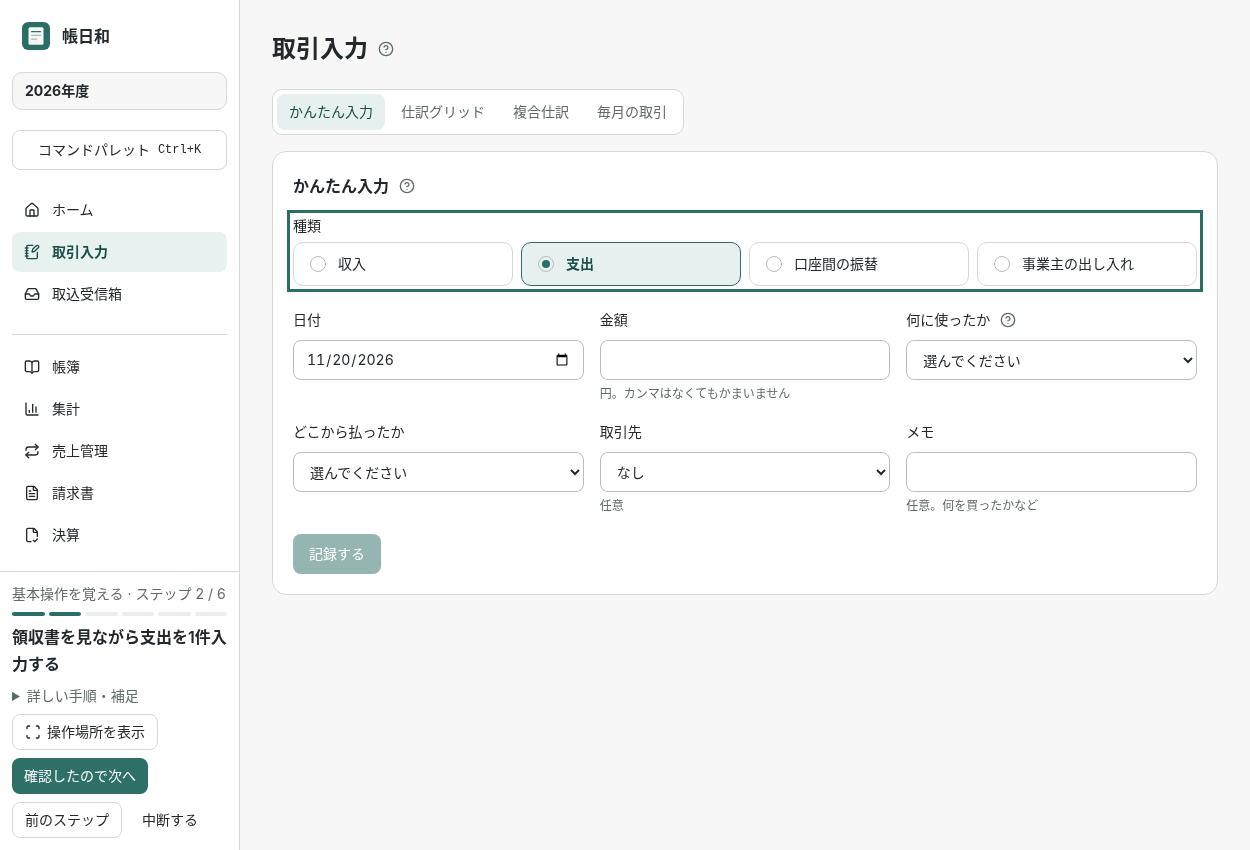
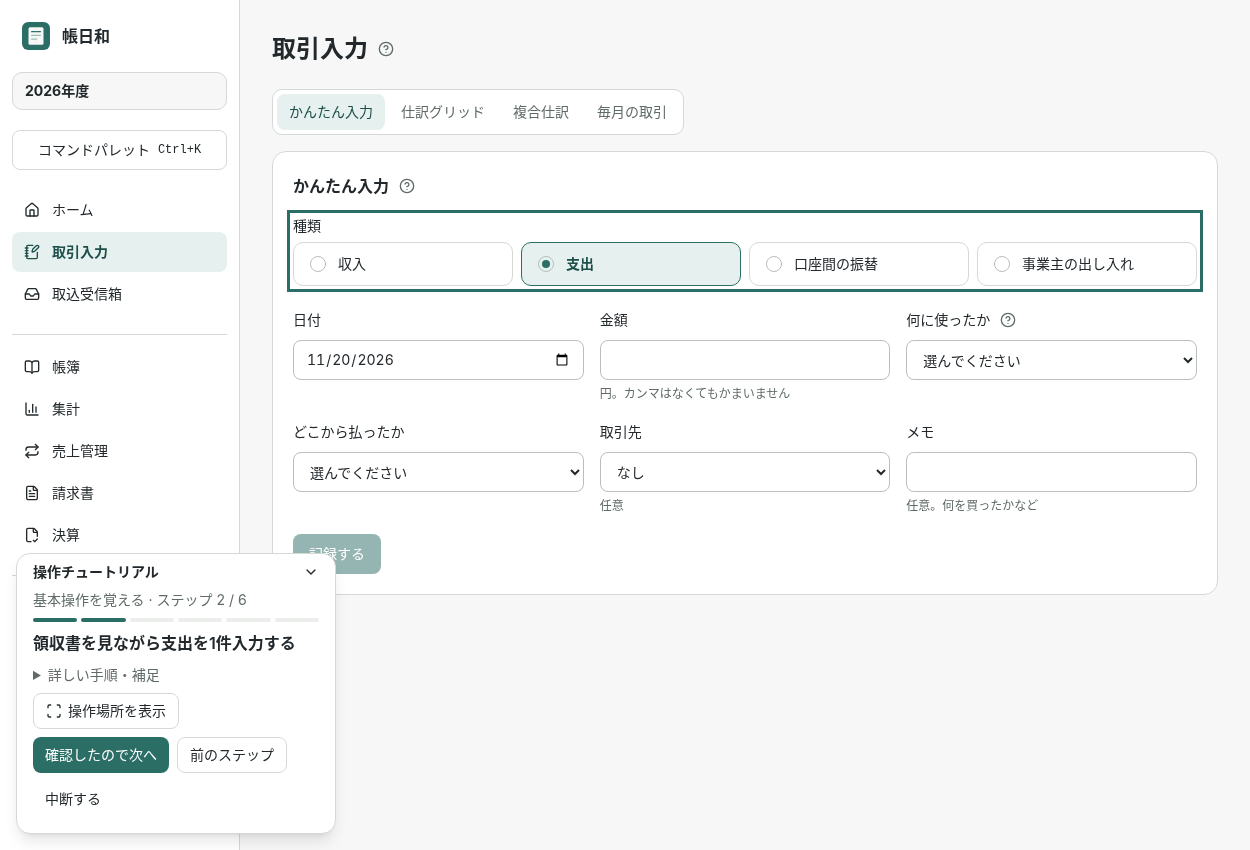
チュートリアルを折りたためるフローティングカードに変更

Changed region(s): [[0.0, 0.6424, 0.2496, 1.0], [0.2184, 0.6424, 0.2808, 0.6729]]

diff --git a/src/features/tutorial/tutorial.tsx b/src/features/tutorial/tutorial.tsx
@@ -3,6 +3,8 @@ import {
 	BookOpen,
 	CalendarDays,
 	ChartColumn,
+	ChevronDown,
+	ChevronUp,
 	CircleCheck,
 	FileDown,
 	FileText,
@@ -17,7 +19,7 @@ import {
 	Search,
 	Settings,
 } from "lucide-react"
-import { createContext, useContext, useEffect, useRef } from "react"
+import { useEffect, useId, useRef } from "react"
 import { createPortal } from "react-dom"
 import { create } from "zustand"
 import { persist } from "zustand/middleware"
@@ -60,11 +62,11 @@ const actionIcons = {
 	backup: [FolderOpen, Save, CircleCheck],
 } as const
 
-export const TutorialDock = createContext<HTMLElement | null>(null)
-
 type Track = keyof typeof tracks
 type Progress = {
 	active: Track | null
+	collapsed: boolean
+	toggleCollapsed: () => void
 	position: Record<Track, number>
 	setActive: (track: Track | null) => void
 	move: (track: Track, index: number) => void
@@ -74,8 +76,11 @@ const useProgress = create<Progress>()(
 	persist(
 		(set) => ({
 			active: null,
+			collapsed: false,
+			toggleCollapsed: () =>
+				set(({ collapsed }) => ({ collapsed: !collapsed })),
 			position: { basics: 0, migration: 0 },
-			setActive: (active) => set({ active }),
+			setActive: (active) => set({ active, collapsed: false }),
 			move: (track, index) =>
 				set(({ position }) => ({
 					active: index < tracks[track].length ? track : null,
@@ -87,9 +92,10 @@ const useProgress = create<Progress>()(
 )
 
 export function Tutorial({ screen }: { screen: ScreenId }) {
-	const { active, position, move, setActive } = useProgress()
+	const { active, collapsed, toggleCollapsed, position, move, setActive } =
+		useProgress()
 	const navigate = useNavigate()
-	const dock = useContext(TutorialDock)
+	const panelId = useId()
 	const marked = useRef<HTMLElement | null>(null)
 	const step = active ? tracks[active][position[active]] : undefined
 	useEffect(() => {
@@ -165,7 +171,7 @@ export function Tutorial({ screen }: { screen: ScreenId }) {
 	}
 	const anchor = anchors[task]
 	const last = index === steps.length - 1
-	if (!dock) return null
+	const ToggleIcon = collapsed ? ChevronUp : ChevronDown
 	function showControl() {
 		const element = anchor
 			?.map((selector) => document.querySelector<HTMLElement>(selector))
@@ -180,75 +186,98 @@ export function Tutorial({ screen }: { screen: ScreenId }) {
 	return createPortal(
 		<aside
 			aria-label={t("title")}
-			className="max-h-[48dvh] overflow-y-auto border-t bg-card px-3 py-3"
+			className={`fixed bottom-4 left-4 z-30 max-h-[calc(100dvh-2rem)] max-w-[calc(100vw-2rem)] overflow-y-auto overscroll-contain border bg-card text-card-foreground shadow-lg ${collapsed ? "rounded-full" : "w-80 rounded-xl"}`}
 		>
-			<div className="flex flex-col items-start gap-2">
-				<div className="w-full" aria-live="polite">
-					<p className="text-muted-foreground text-sm">
-						{t(active)} ·{" "}
-						{t("progress", { current: index + 1, total: steps.length })}
-					</p>
-					<div className="my-2 flex gap-1" aria-hidden="true">
-						{steps.map(([, id], i) => (
-							<span
-								key={id}
-								className={`h-1 flex-1 rounded-full ${i <= index ? "bg-primary" : "bg-muted"}`}
-							/>
-						))}
+			<button
+				type="button"
+				aria-expanded={!collapsed}
+				aria-controls={panelId}
+				title={t(collapsed ? "expand" : "collapse")}
+				aria-label={
+					t(collapsed ? "expand" : "collapse") +
+					" · " +
+					t("progress", { current: index + 1, total: steps.length })
+				}
+				className="flex w-full items-center gap-3 rounded-[inherit] px-4 py-2 text-left text-sm hover:bg-accent focus-visible:outline-2 focus-visible:-outline-offset-2"
+				onClick={toggleCollapsed}
+			>
+				<span className="font-semibold">{t("title")}</span>
+				{collapsed && (
+					<span className="text-muted-foreground">
+						{index + 1} / {steps.length}
+					</span>
+				)}
+				<ToggleIcon className="ml-auto size-4 shrink-0" aria-hidden="true" />
+			</button>
+			<div id={panelId} hidden={collapsed}>
+				<div className="flex flex-col items-start gap-2 px-4 pb-4">
+					<div className="w-full" aria-live="polite">
+						<p className="text-muted-foreground text-sm">
+							{t(active)} ·{" "}
+							{t("progress", { current: index + 1, total: steps.length })}
+						</p>
+						<div className="my-2 flex gap-1" aria-hidden="true">
+							{steps.map(([, id], i) => (
+								<span
+									key={id}
+									className={`h-1 flex-1 rounded-full ${i <= index ? "bg-primary" : "bg-muted"}`}
+								/>
+							))}
+						</div>
+						<h2 className="font-semibold">{t(task)}</h2>
 					</div>
-					<h2 className="font-semibold">{t(task)}</h2>
-				</div>
-				<details key={task} className="text-sm">
-					<summary className="cursor-pointer text-muted-foreground">
-						{t("details")}
-					</summary>
-					<ol className="mt-2 grid gap-1">
-						{(["Action1", "Action2", "Action3"] as const).map((action, i) => {
-							const Icon = actionIcons[task][i]
-							return (
-								<li key={action} className="flex items-start gap-2">
-									<Icon
-										aria-hidden="true"
-										className="mt-0.5 size-4 shrink-0 text-primary"
-									/>
-									{t(`${task}${action}`)}
-								</li>
-							)
-						})}
-					</ol>
-					<p className="mt-2 leading-relaxed">{t(`${task}Body`)}</p>
-				</details>
-				<div className="flex flex-wrap gap-2">
-					{screen === target && anchor && (
-						<Button variant="outline" size="sm" onClick={showControl}>
-							<Scan aria-hidden="true" />
-							{t("showControl")}
+					<details key={task} className="text-sm">
+						<summary className="cursor-pointer text-muted-foreground">
+							{t("details")}
+						</summary>
+						<ol className="mt-2 grid gap-1">
+							{(["Action1", "Action2", "Action3"] as const).map((action, i) => {
+								const Icon = actionIcons[task][i]
+								return (
+									<li key={action} className="flex items-start gap-2">
+										<Icon
+											aria-hidden="true"
+											className="mt-0.5 size-4 shrink-0 text-primary"
+										/>
+										{t(`${task}${action}`)}
+									</li>
+								)
+							})}
+						</ol>
+						<p className="mt-2 leading-relaxed">{t(`${task}Body`)}</p>
+					</details>
+					<div className="flex flex-wrap gap-2">
+						{screen === target && anchor && (
+							<Button variant="outline" size="sm" onClick={showControl}>
+								<Scan aria-hidden="true" />
+								{t("showControl")}
+							</Button>
+						)}
+						{screen === target ? (
+							<Button size="sm" onClick={() => open(active, index + 1)}>
+								{t(last ? "finish" : "next")}
+							</Button>
+						) : (
+							<Button size="sm" onClick={() => open(active, index)}>
+								{t("go", { screen: nav(target) })}
+							</Button>
+						)}
+						{index > 0 && (
+							<Button
+								variant="outline"
+								size="sm"
+								onClick={() => open(active, index - 1)}
+							>
+								{t("back")}
+							</Button>
+						)}
+						<Button variant="ghost" size="sm" onClick={() => setActive(null)}>
+							{t("pause")}
 						</Button>
-					)}
-					{screen === target ? (
-						<Button size="sm" onClick={() => open(active, index + 1)}>
-							{t(last ? "finish" : "next")}
-						</Button>
-					) : (
-						<Button size="sm" onClick={() => open(active, index)}>
-							{t("go", { screen: nav(target) })}
-						</Button>
-					)}
-					{index > 0 && (
-						<Button
-							variant="outline"
-							size="sm"
-							onClick={() => open(active, index - 1)}
-						>
-							{t("back")}
-						</Button>
-					)}
-					<Button variant="ghost" size="sm" onClick={() => setActive(null)}>
-						{t("pause")}
-					</Button>
+					</div>
 				</div>
 			</div>
 		</aside>,
-		dock
+		document.body
 	)
 }

diff --git a/src/components/layout/app-shell.tsx b/src/components/layout/app-shell.tsx
@@ -1,5 +1,4 @@
 import { Link, Outlet } from "@tanstack/react-router"
-import { useState } from "react"
 import { navGroups, screenEnabled } from "@/app/navigation"
 import { WhatsNewBanner } from "@/features/changelog/whats-new-banner"
 import { CommandPalette } from "@/features/commands/command-palette"
@@ -12,13 +11,11 @@ import {
 	useYearStore,
 } from "@/features/setup/fiscal-years"
 import { useFeatures } from "@/features/setup/setup"
-import { TutorialDock } from "@/features/tutorial/tutorial"
 import { UpdateBanner } from "@/features/updater/update-banner"
 import { useTranslations } from "@/i18n/use-translations"
 
 /** サイドメニューと本文の枠。すべての画面で共通。 */
 export function AppShell() {
-	const [dock, setDock] = useState<HTMLDivElement | null>(null)
 	const features = useFeatures()
 	const t = useTranslations("nav")
 	const tApp = useTranslations("app")
@@ -34,71 +31,63 @@ export function AppShell() {
 			>
 				{tApp("skipToContent")}
 			</a>
-			<div className="flex w-60 shrink-0 flex-col border-sidebar-border border-r bg-sidebar">
-				<nav
-					aria-label={t("label")}
-					className="flex min-h-0 flex-1 flex-col gap-5 overflow-y-auto px-3 py-5 text-sidebar-foreground"
-				>
-					<div className="flex items-center gap-2.5 px-2">
-						<img src="/app-icon.svg" alt="" className="size-8" />
-						<span className="font-bold text-base">{tApp("name")}</span>
+			<nav
+				aria-label={t("label")}
+				className="flex w-60 shrink-0 flex-col gap-5 overflow-y-auto border-sidebar-border border-r bg-sidebar px-3 py-5 text-sidebar-foreground"
+			>
+				<div className="flex items-center gap-2.5 px-2">
+					<img src="/app-icon.svg" alt="" className="size-8" />
+					<span className="font-bold text-base">{tApp("name")}</span>
+				</div>
+				{years.length > 1 ? (
+					// 取り込んだ過去の年度などがあるときは、見る年度を選べる
+					<select
+						aria-label={tApp("chooseFiscalYear")}
+						value={year}
+						onChange={(e) => selectYear(Number(e.target.value))}
+						className="h-10 rounded-lg border bg-background px-3 font-bold text-sm outline-none focus-visible:ring-[3px] focus-visible:ring-ring/50"
+					>
+						{years.map((y) => (
+							<option key={y.year} value={y.year}>
+								{tApp("fiscalYear", { year: y.year })}
+							</option>
+						))}
+					</select>
+				) : (
+					<div className="rounded-lg border bg-background px-3 py-2 font-bold text-sm">
+						{tApp("fiscalYear", { year })}
 					</div>
-					{years.length > 1 ? (
-						// 取り込んだ過去の年度などがあるときは、見る年度を選べる
-						<select
-							aria-label={tApp("chooseFiscalYear")}
-							value={year}
-							onChange={(e) => selectYear(Number(e.target.value))}
-							className="h-10 rounded-lg border bg-background px-3 font-bold text-sm outline-none focus-visible:ring-[3px] focus-visible:ring-ring/50"
-						>
-							{years.map((y) => (
-								<option key={y.year} value={y.year}>
-									{tApp("fiscalYear", { year: y.year })}
-								</option>
+				)}
+				<CommandPalette />
+				{navGroups.map((group) => (
+					<ul
+						key={group[0].id}
+						className="flex flex-col gap-0.5 border-sidebar-border border-t pt-3 first-of-type:border-t-0 first-of-type:pt-0"
+					>
+						{group
+							.filter((item) => screenEnabled(item.id, features))
+							.map((item) => (
+								<li key={item.id}>
+									<Link
+										to={item.path}
+										activeOptions={{ exact: item.path === "/" }}
+										className="flex min-h-10 items-center gap-3 rounded-md px-3 font-medium text-sm transition-colors hover:bg-sidebar-accent/60 data-[status=active]:bg-sidebar-accent data-[status=active]:font-bold data-[status=active]:text-sidebar-accent-foreground"
+									>
+										<item.icon aria-hidden="true" className="size-4 shrink-0" />
+										{t(item.id)}
+									</Link>
+								</li>
 							))}
-						</select>
-					) : (
-						<div className="rounded-lg border bg-background px-3 py-2 font-bold text-sm">
-							{tApp("fiscalYear", { year })}
-						</div>
-					)}
-					<CommandPalette />
-					{navGroups.map((group) => (
-						<ul
-							key={group[0].id}
-							className="flex flex-col gap-0.5 border-sidebar-border border-t pt-3 first-of-type:border-t-0 first-of-type:pt-0"
-						>
-							{group
-								.filter((item) => screenEnabled(item.id, features))
-								.map((item) => (
-									<li key={item.id}>
-										<Link
-											to={item.path}
-											activeOptions={{ exact: item.path === "/" }}
-											className="flex min-h-10 items-center gap-3 rounded-md px-3 font-medium text-sm transition-colors hover:bg-sidebar-accent/60 data-[status=active]:bg-sidebar-accent data-[status=active]:font-bold data-[status=active]:text-sidebar-accent-foreground"
-										>
-											<item.icon
-												aria-hidden="true"
-												className="size-4 shrink-0"
-											/>
-											{t(item.id)}
-										</Link>
-									</li>
-								))}
-						</ul>
-					))}
-				</nav>
-				<div ref={setDock} className="shrink-0" />
-			</div>
+					</ul>
+				))}
+			</nav>
 			<main id="main" className="min-w-0 flex-1 overflow-y-auto">
 				<WhatsNewBanner />
 				<UpdateBanner />
 				<FilingCalendarSyncWorker />
 				<FilingNotificationScheduler />
 				<FilingReminderBanner />
-				<TutorialDock.Provider value={dock}>
-					<Outlet />
-				</TutorialDock.Provider>
+				<Outlet />
 			</main>
 		</div>
 	)
